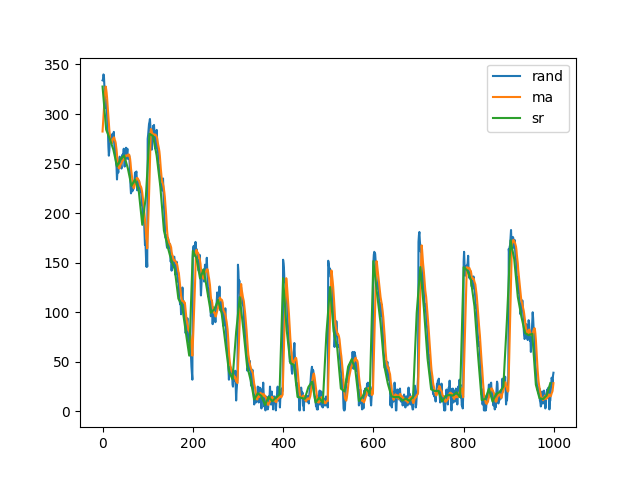
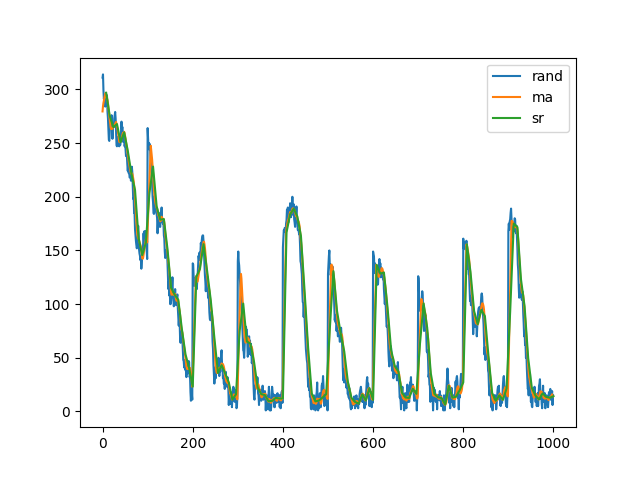
buggy code trying to change to 16 buffers

diff --git a/silverhand-program/silverhand-one-motor/testing_ma.py b/silverhand-program/silverhand-one-motor/testing_ma.py
@@ -2,9 +2,9 @@ import random
 import matplotlib.pyplot as plt
 
 # Global Constants
-MOVING_AVERAGE_BUFFER = 8
+MOVING_AVERAGE_BUFFER = 16
 DEFAULT_RELAXTHRESH = 275
-SMOOTH_READS = 8
+SMOOTH_READS = 16
 
 rand_nums = []
 
@@ -18,7 +18,7 @@ def gen_random_nums():
     curr_num = 200
     while i < 1000:
         if i %100 == 0: # simulate spikes
-            curr_num += random.randint(100, 150)
+            curr_num += random.randint(300, 600)
             curr_num = max(0, curr_num)
             curr_num = min(curr_num, 1023)
         else:
@@ -33,13 +33,14 @@ def gen_random_nums():
         i += 1
         rand_nums.append(curr_num)
     plt.plot(range(0, 1000), rand_nums, label="rand")
-    
+
+
 class Moving_Average:
     """
         The Moving Average class serves as a different way of reading a numbers.
     """
     def __init__(self):
-        self.values = [275, 275, 275, 275, 275, 275, 275, 275]
+        self.values = [275] * MOVING_AVERAGE_BUFFER
         self.counter = 0
         self.sum = DEFAULT_RELAXTHRESH * MOVING_AVERAGE_BUFFER
         self.results = []
@@ -77,10 +78,10 @@ class Smooth_Read:
     def read_val(self, current_beginning):
         # instantiate necessary variables
         sum = 0
-        
+        print("curr_begin = ", current_beginning)
         # read in vals
         for i in range(SMOOTH_READS):
-            sum += rand_nums[current_beginning + i]# TODO: read in value
+            sum += rand_nums[current_beginning + i]
 
         # compute avg
         avg = sum / SMOOTH_READS
@@ -110,11 +111,18 @@ if __name__ == '__main__':
     plt.plot(range(0, 1000), ma.results, label="ma")
     
     # test smooth read
-    for i in range(0, 1000, 8):
+    for i in range(0, 1000, SMOOTH_READS):
         sr.read_val(i)
+
+    # print array lengths
+    print("MA.results.length", len(ma.results))
+    print("SR.results.length", len(sr.results))
+
     
     # plot values
-    plt.plot(range(0, 1000, 8), sr.results, label="sr")
+    #sr.results.pop()
+    
+    plt.plot(range(MOVING_AVERAGE_BUFFER, 1000 + MOVING_AVERAGE_BUFFER, MOVING_AVERAGE_BUFFER), sr.results, label="sr")
 
     
     plt.legend()
